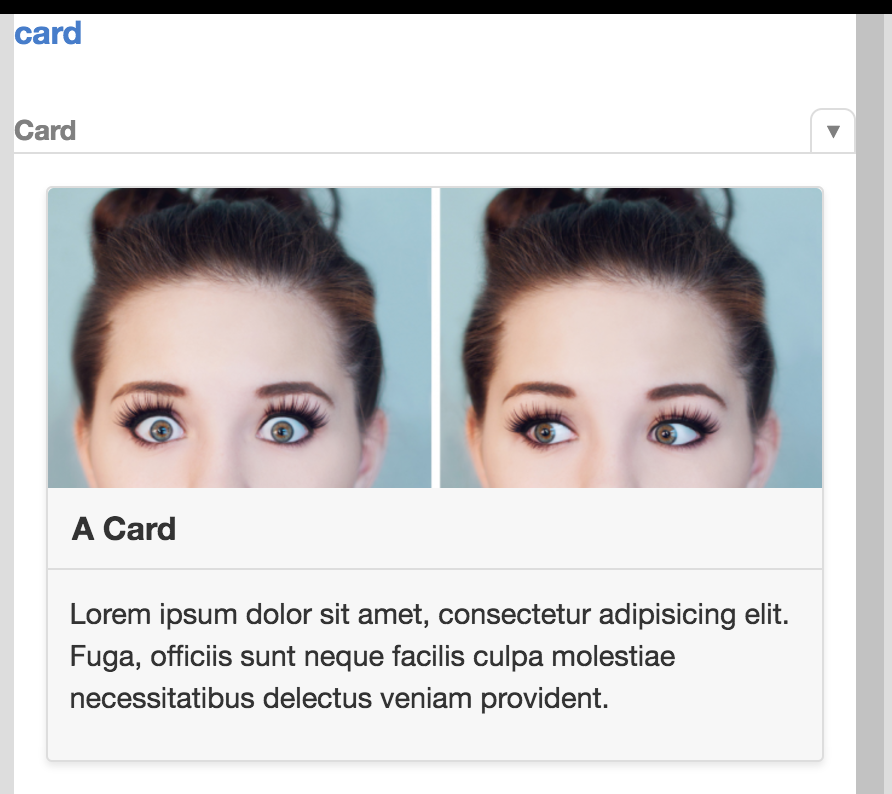
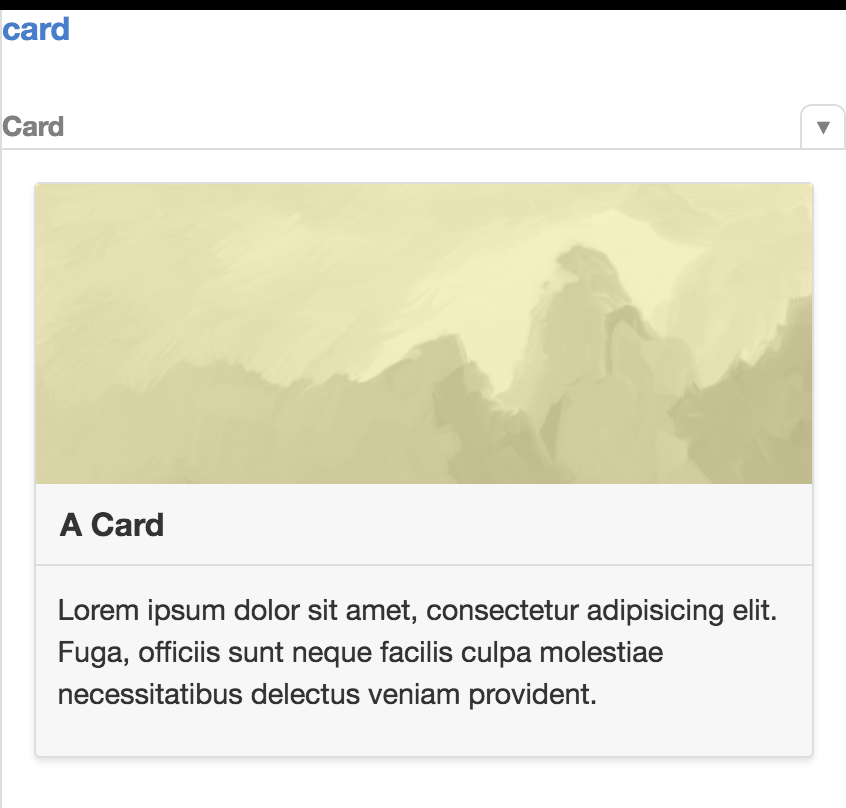
Completed initial draft of The Basics section

diff --git a/hexo/source/_posts/The-Basics.md b/hexo/source/_posts/The-Basics.md
@@ -76,7 +76,6 @@ You can see the full contents of this file in [this project's repository](https:
   }
 
 }
-
 {% endcodeblock %}
 
 This provides a nice structure that gives us the BEM classes expected in the markup for card.twig.
@@ -90,12 +89,79 @@ After defining some data to be used for our component, we'll see the following r
 
 ## Mapping The Component to Drupal
 
-Depending on the complexity of your component, I often find it helpful to start by exposing the prototype component in Drupal first.
+Now that we have a card component in Pattern Lab, let's render it in Drupal. Sticking to the somewhat tangential theme we have going, we're going to be rendering Cast member profiles from the Real World reality show as cards to start. We've created a basic 'Cast' content type that currently only has the basics to render a card - title, body, and image fields.
 
-Now that we see the same component from Pattern Lab in Drupal, let's map the actual data into the component.
+We've also created a new 'Card' Display Mode. This provides an easy hook into rendering various content as cards.  We can enable this display mode for all of the content types we want to render as cards, configure which fields to display, and we also get a nice specific template suggestion - in this case node--cast--card.html.twig
+
+### Rendering The Prototype
+
+Depending on the complexity of your component, I often find it helpful to start by exposing the prototype component in Drupal first.  In your theme's templates directory, we'll the new node--cast--card.html.twig  This is a presenter template - it only serves to reference the component template from our pattern library and translate Drupal's data into the format that the pattern library component is expecting. Let's take a look at the Twig markup:
+
+{% gist 820bbc02154908ce5f191e2c704c0396 node--cast--card.html.twig.prototype %}
+
+Looking at the component parts, we first have the include statement:
+
+    include "@molecules/card/card.twig"
+    
+[Twig's include statement](http://twig.sensiolabs.org/doc/2.x/tags/include.html) finds our card component template and returns the rendered content of that file to our current presenter template.  The @molecules portion of that path is a Twig namespace made possible by the Components module.  By default, templates can only live in the themes templates subdirectory, but these custom namespaces allow us to make Drupal aware of other paths. The are defined in your theme's info.yaml file. In our theme we've created namespaces for each of the main Patterns directories in Pattern Lab.
+
+{% codeblock lang:yaml Twig namespaces as defined in neato_refills.yaml %}
+# This section is used by the contrib module, Component Libraries. It allows you
+# to reference .twig files in your sass/ directory by using the Twig namespace:
+# @components
+component-libraries:
+  atoms:
+    paths:
+      - source/_patterns/00-atoms
+  molecules:
+    paths:
+      - source/_patterns/01-molecules
+  organisms:
+    paths:
+      - source/_patterns/02-organisms
+  templates:
+    paths:
+      - source/_patterns/03-templates
+  pages:
+    paths:
+      - source/_patterns/04-pages
+{% endcodeblock %}
+
+Getting back to our node--card--cast.html.twig template, our include statement also uses the with keyword. With allows us to explicitly define and map variables to our card component template.  
+
+      with {
+        "header": "A Card",
+        "img_src": "https://raw.githubusercontent.com/thoughtbot/refills/master/source/images/mountains.png",
+        "img_alt": "Card Image",
+        "copy": "Lorem ipsum dolor sit amet, consectetur adipisicing elit. Fuga, officiis sunt neque facilis culpa molestiae necessitatibus delectus veniam provident."
+      }
+
+Since we're just looking to see the prototype component in Drupal, this is literally just the same data in the same format from the component's json file in pattern lab.
+
+{% gist 820bbc02154908ce5f191e2c704c0396 card.json %}
+
+Now, if we view a cast node in the card display mode, we'll see the same prototype component from Pattern Lab.
+
+![](map_prototype.png)
+
+### Rendering Drupal's Data
+
+Now that we see the same component from Pattern Lab in Drupal, let's map the actual node data into the component.  Here we are just selecting from the variables available to the template, replacing that with the placeholder data from the template.  The end result is:
+
+{% gist 820bbc02154908ce5f191e2c704c0396 node--cast--card.html.twig %}
+
+Finding the right variables can be tricky, which is why I think it is useful to start with placeholders from the prototype and swap out values piecemeal. Debugging will help you here - we'll review some of the options later on.
+
+The end result, we see our node data rendered in Drupal, using the card component from the Pattern Library.
+
+![](map_drupal.png)
 
 ## Recapping the Workflow
 
-* Build it in pattern lab
-* Get the pattern lab version in Drupal
-* Map the Drupal version
+As outlined above, when creating a new component I'll:
+
+* Build the component as desired in Pattern Lab first.
+* Stand the prototype component up in Drupal.
+* Map the data objects one by one to the real thing in Drupal.
+
+As you might imagine, this data mapping can get substantially more complicated than what we saw in this simple example. Next we'll look at some options to simplify that process.

diff --git a/hexo/source/_posts/Introduction.md b/hexo/source/_posts/Introduction.md
@@ -7,8 +7,6 @@ cover_detail: /real-world//assets/new_york_detail.jpg
 tags:
 ---
 
-Change 2
-
 ## Component Based Design Systems Aren't New To Drupal
 
 While it is experiencing a continued surge in popularity in the Drupal community, component based design systems are nothing new.  Prior to Drupal 8 developers were building intelligently re-usable templates and using component friendly modules like [Display Suite](https://www.drupal.org/project/ds), [Views](https://www.drupal.org/project/views), [Panels](https://www.drupal.org/project/panels), [Paragraphs](https://www.drupal.org/project/paragraphs) and more to help implement their design systems.
